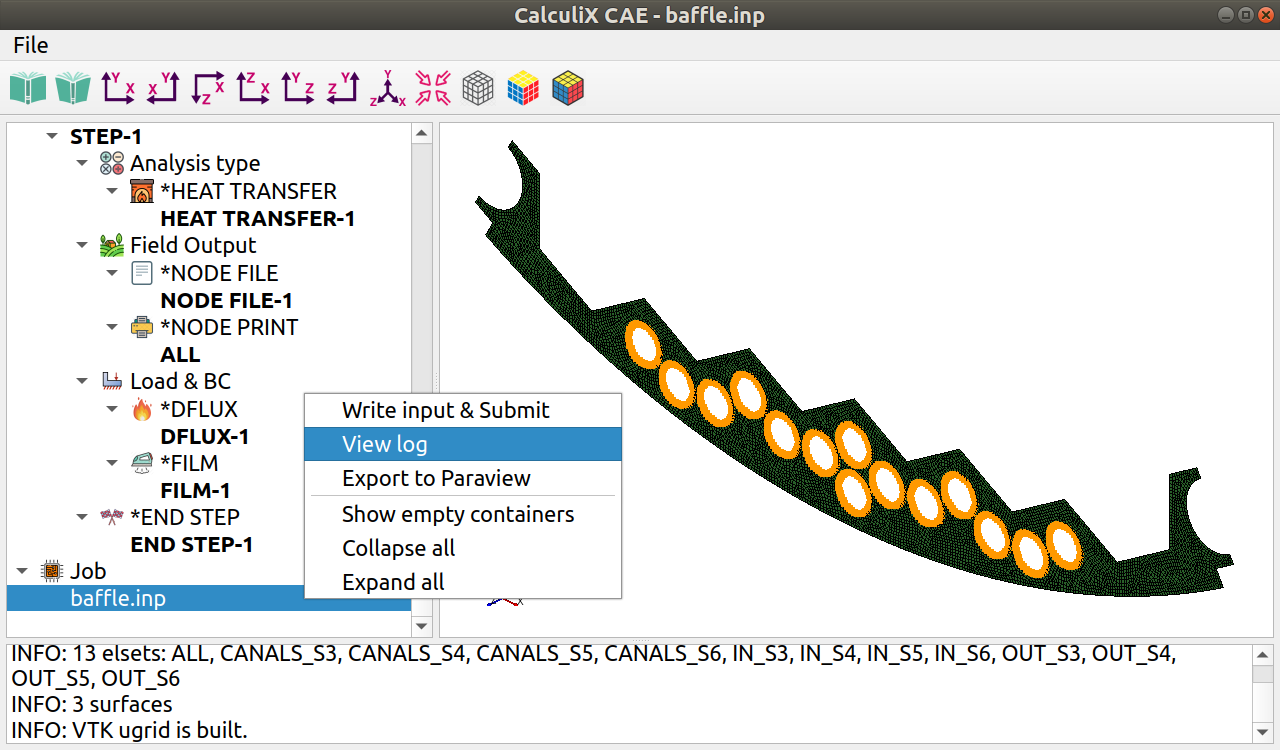
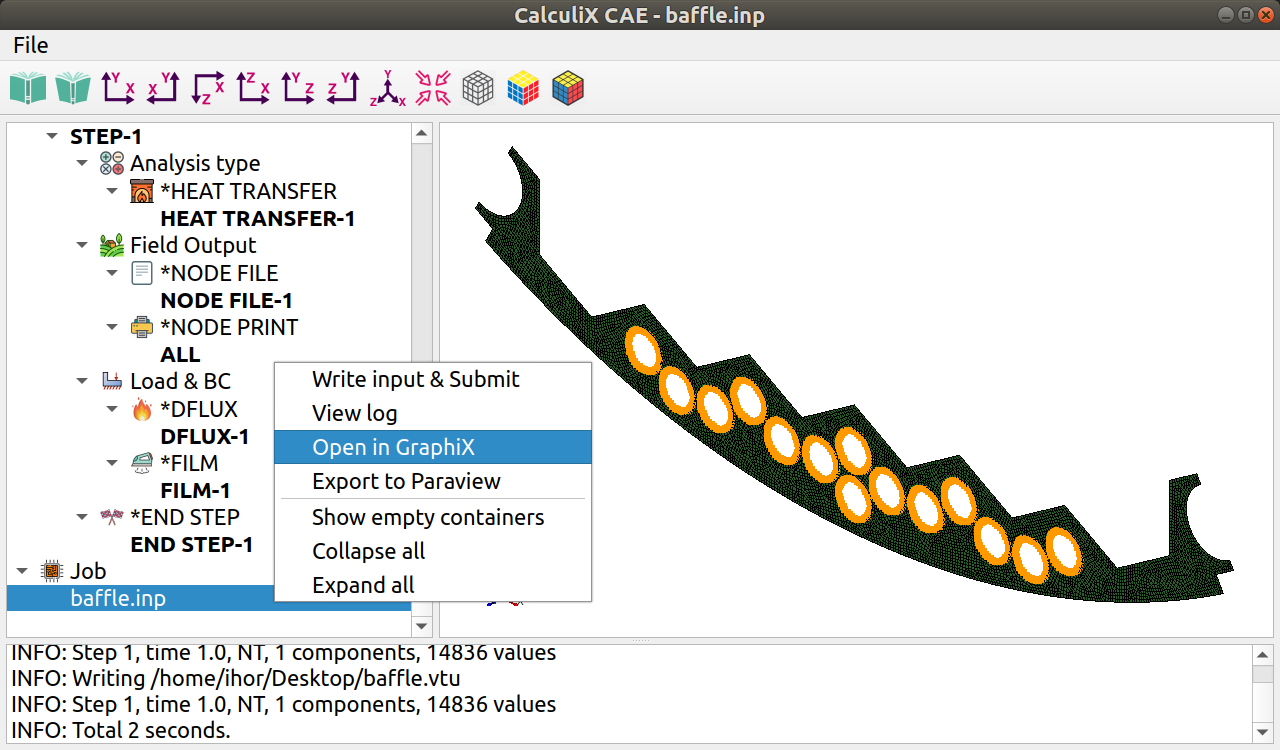
Open job result in GraphiX

diff --git a/release_binaries.py b/release_binaries.py
@@ -17,7 +17,6 @@ if __name__ == '__main__':
 
     one_file = False
     PROJECT_NAME = os.path.split(os.getcwd())[-1] # name of project's folder
-
     DIRECTORY = os.path.join(os.path.abspath('dist'), PROJECT_NAME)
     DATE = '_' + datetime.datetime.now().strftime('%Y%m%d')
     op_sys = '_windows' if os.name=='nt' else '_ubuntu'
@@ -26,9 +25,13 @@ if __name__ == '__main__':
     extension = '.exe' if os.name=='nt' else '' # file extension in OS
 
     # Run pyinstaller to create binaries
-    args = [PROJECT_NAME + '.py', '--workpath=' + TEMP]
+    args = [
+        PROJECT_NAME + '.py',   # ccx_cae.py
+        '--workpath=' + TEMP,   # temp dir
+        '-w',                   # no console during app run
+        ]
     if one_file:
-        args.append('--onefile')
+        args.append('-F')
     PyInstaller.__main__.run(args)
 
     # Delete cached files

diff --git a/ccx_cae.py b/ccx_cae.py
@@ -11,8 +11,18 @@
 """
 
 
+# Modify system enviroment variable PATH
+def _append_run_path():
+    # If the application runs as a bundle, the pyInstaller bootloader
+    # extends the sys module by a flag frozen=True and sets the app
+    # path into variable _MEIPASS'.
+    if getattr(sys, 'frozen', False):
+        pathlist = [sys._MEIPASS, os.path.dirname(sys.executable)]
+        os.environ['PATH'] += os.pathsep + os.pathsep.join(pathlist)
+
+
 import sys, os, argparse, logging, shutil, subprocess
-os.environ['PATH'] += os.path.dirname(sys.executable) # Pyinstaller bug in Windows
+_append_run_path() # Pyinstaller bug in Windows
 from PyQt5 import QtWidgets, uic, QtCore, QtGui
 import ccx_cae_tree, ccx_vtk, ccx_dom, ccx_cae_ie, ccx_settings, ccx_job, ccx_log
 

diff --git a/README.md b/README.md
@@ -118,10 +118,6 @@ CalculiX CAE uses external converters:
 
 # TODO
 
-**Done for the next release**
-
-- Open job result in GraphiX
-
 **Improvements and bugfixes**
 
 - Better ViewSurfaceWithEdges - implement it manually without EdgeVisibilityOn().
